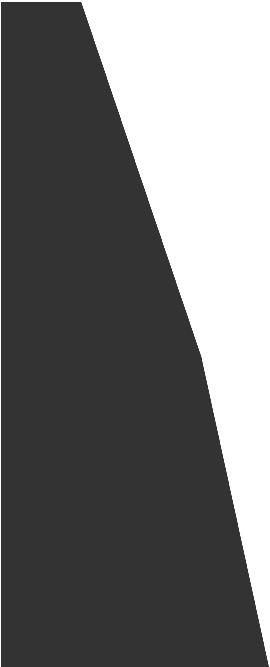
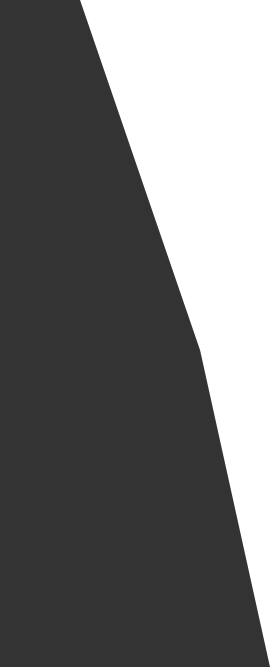
menu animation

diff --git a/src/style/main.css b/src/style/main.css
@@ -1,20 +1,26 @@
 body{
-    background: green;
+    /* background: green; */
 }
 
 #app{
     width: 100vw;
     overflow: hidden;
+    position: relative;
 }
 
+
+#mainNav{
+  /* position: fixed; */
+  background: red;
+  width: 100vw;
+}
 
 #menuToggle
 {
   display: block;
-  position: relative;
-  float: right;
-  margin-top: 50px;
-  margin-right: 50px;
+  position: fixed;
+  top: 30px;
+  right: 30px;
   z-index: 1;
   -webkit-user-select: none;
   user-select: none;
@@ -52,8 +58,8 @@ body{
   transform-origin: 4px 0px;
 
   transition: transform 0.5s cubic-bezier(0.77,0.2,0.05,1.0),
-              background 0.5s cubic-bezier(0.77,0.2,0.05,1.0),
-              opacity 0.55s ease;
+              /* background 0.5s cubic-bezier(0.77,0.2,0.05,1.0), */
+              /* opacity 0.55s ease; */
 }
 
 #menuToggle span:first-child
@@ -70,29 +76,29 @@ body{
  * Transform all the slices of hamburger
  * into a crossmark.
  */
-#menuToggle input:checked ~ span
+/* #menuToggle input:checked ~ span
 {
   opacity: 1;
   transform: rotate(45deg) translate(-2px, -1px);
   background: #232323;
-}
+} */
 
 /*
  * But let's hide the middle one.
  */
-#menuToggle input:checked ~ span:nth-last-child(3)
+/* #menuToggle input:checked ~ span:nth-last-child(3)
 {
   opacity: 0;
   transform: rotate(0deg) scale(0.2, 0.2);
-}
+} */
 
 /*
  * Ohyeah and the last one should go the other direction
  */
-#menuToggle input:checked ~ span:nth-last-child(2)
+/* #menuToggle input:checked ~ span:nth-last-child(2)
 {
   transform: rotate(-45deg) translate(0, -1px);
-}
+} */
 
 /*
  * Make this absolute positioned
@@ -101,62 +107,73 @@ body{
 #menu
 {
   position: absolute;
-  width: 300px;
-  margin: -100px 0 0 -50px;
-  padding: 50px;
-  padding-top: 125px;
-
-  background: #ededed;
+  z-index: 3;
+  /* width: 300px; */
+  /* background: #ededed; */
   list-style-type: none;
   -webkit-font-smoothing: antialiased;
   /* to stop flickering of text in safari */
-
-  transform-origin: 0% 0%;
-  transform: translate(-100%, 0);
-
   transition: transform 0.5s cubic-bezier(0.77,0.2,0.05,1.0);
+  top: 172px;
+  right: 30px;
+  text-align: right;
+  font-family: 'Noto Sans SC', sans-serif;
+}
+
+#menu a{
+  list-style: none;
+  text-decoration: none;
+  color: #000000;
 }
 
 #menu li
 {
-  padding: 10px 0;
+  padding: 20px 0;
   font-size: 22px;
 }
 
 /*
  * And let's slide it in from the left
  */
-#menuToggle input:checked ~ ul
+/* #menuToggle input:checked ~ ul
 {
   transform: none;
-}
+} */
 
 .menuMain{
-  position: relative;
+  position: fixed;
   /* margin-top: -3px; */
   padding-top: 0px;
+  width: 100vw;
+  height: auto;
 }
 
-.menuMain img{
+.menuBack{
   position: absolute;
   top: 0;
+  z-index: 2;
+}
+
+.logo{
+  position: absolute;
+  z-index: 2;
+  left: 20px;
+  top: 35px;
+  width: 17%;
 }
 
 #triangleWhite{
   left: 0px;
   width: 100%;
-  height: auto;
+  height: 100vh;
+  transition: 1s all cubic-bezier(0.77,0.2,0.05,1.0);
 }
 
 #triangleBlack{
   left: 0px;
-  width: 100%;
-  height: auto;
-}
-
-nav{
-  margin-top: 0px;
-  padding-top: 0px;
+  width: 80%;
+  height: 100vh;
+  transition: 1s all cubic-bezier(0.77,0.2,0.05,1.0);
 }
 
 

diff --git a/src/components/Menu.vue b/src/components/Menu.vue
@@ -1,22 +1,27 @@
 <template>
-    <nav id="mainNav">
+    <!-- <nav id="mainNav"> -->
       <div id="menuToggle" v-on:click="toggleMenu">
           <span></span>
           <span></span>
           <span></span>
       </div>
       <div class="menuMain">
-        <img id="triangleWhite" src="../assets/triangleWhite1.png" alt="triangleWhite1">
-        <img id="triangleBlack" src="../assets/triangleBlack1.png" alt="triangleBlack1">
+        <img class="menuBack" id="triangleWhite" :class="{'moveWhite': !isActive}" src="../assets/triangleWhite1.png" alt="triangleWhite1">
+        <img class="menuBack" id="triangleBlack" :class="{'moveBlack': !isActive}" src="../assets/triangleBlack1.png" alt="triangleBlack1">
+        <img class="logo" src="../assets/lingoo.png" alt="lingoo">
         <ul id="menu">
-            <a href="#"><li>Home</li></a>
-            <a href="#"><li>About</li></a>
-            <a href="#"><li>Info</li></a>
-            <a href="#"><li>Contact</li></a>
-            <a href="https://erikterwan.com/" target="_blank"><li>Show me more</li></a>
+            <a href="#"><li>首页</li></a>
+            <a href="#"><li>案例展示</li></a>
+            <a href="#"><li>关于我们</li></a>
+            <a href="#"><li>联系我们</li></a>
         </ul>
+        <div class="menuInfo">
+          <div class="">
+            <img src="../assets/addressIcon.png" alt="">
+          </div>
+        </div>
       </div>
-    </nav>
+    <!-- </nav> -->
 
 </template>
 <script>
@@ -43,5 +48,12 @@ export default {
 }
 </script>
 <style scoped>
-
+.moveWhite{
+  left: 400px !important;
+  transition: 1s all cubic-bezier(0.77,0.2,0.05,1.0);
+}
+.moveBlack{
+  left: -300px !important;
+  transition: 1s all cubic-bezier(0.77,0.2,0.05,1.0);
+}
 </style>

diff --git a/public/index.html b/public/index.html
@@ -5,6 +5,7 @@
     <meta http-equiv="X-UA-Compatible" content="IE=edge">
     <meta name="viewport" content="width=device-width,initial-scale=1.0">
     <link rel="icon" href="<%= BASE_URL %>favicon.ico">
+    <link href="https://fonts.googleapis.com/css2?family=Noto+Sans+SC:wght@300&display=swap" rel="stylesheet">
     <title><%= htmlWebpackPlugin.options.title %></title>
   </head>
   <body>
